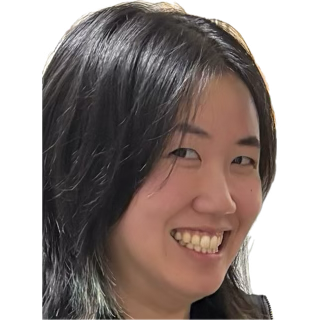
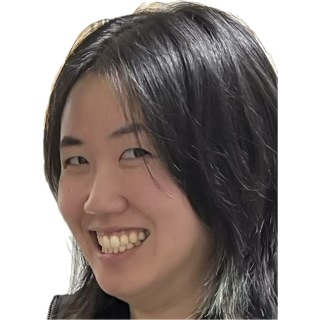
Day 5 no 4-flower; update erica + sav_wee photos; low energy threshold to 4

diff --git a/index.html b/index.html
@@ -45,7 +45,7 @@ const WATER_ENERGY = 1;            // +1
 const JOURNAL_ENERGY = 5;          // +5 (wilting rescue item)
 const JOURNAL_VISIBLE_MS = 15000;  // 15 seconds on floor
 const EAT_DRINK_PAUSE = 2000;
-const LOW_ENERGY_THRESHOLD = 5;
+const LOW_ENERGY_THRESHOLD = 4;
 const ACCEPT_COST = 0.5;           // −0.5
 const COLLECT_COST = 1/3;          // −⅓ per flower
 const DELIVER_COST = 1/3;          // −⅓ on delivery
@@ -81,7 +81,7 @@ const LEVELS = {
        briefMsg:"Working is exhausting. You might be more drawn to True Crime, but RESIST!" },
   4: { minOrders:7,  threeFlowerRate:0.50, maxFlowers:3, fourFlowerRate:0, patience:22, spawnGap:[1800,3000],  label:"Peak Season",
        briefMsg:"The shop is picking up & customers want bigger bouquets? BTW, your friend is sick today, so make sure to avoid them." },
-  5: { minOrders:6,  threeFlowerRate:0.75, fourFlowerRate:0.10, patience:24, spawnGap:[2000,3500],  label:"Full Bloom",
+  5: { minOrders:6,  threeFlowerRate:0.75, fourFlowerRate:0, maxFlowers:3, patience:24, spawnGap:[2000,3500],  label:"Full Bloom",
        briefMsg:"Final Day! FYI - Your friend is healthy. Pace yourself, stay fuelled, and finish strong." },
 };
 
@@ -166,7 +166,7 @@ function getWbState(wb) {
 function effectiveSpeed(pts, wbState, speedMod) {
   const ef = 0.35 + Math.max(0,pts/TOTAL_POINTS)*0.65;
   let spd = BASE_SPEED * WB[wbState].spd * speedMod * ef;
-  if(wbState<=SLOW_MOOD_THRESHOLD && pts<LOW_ENERGY_THRESHOLD) spd *= 0.65;
+  if(pts<LOW_ENERGY_THRESHOLD) spd *= 0.55;
   return spd;
 }
 // Order reward based on flower count
